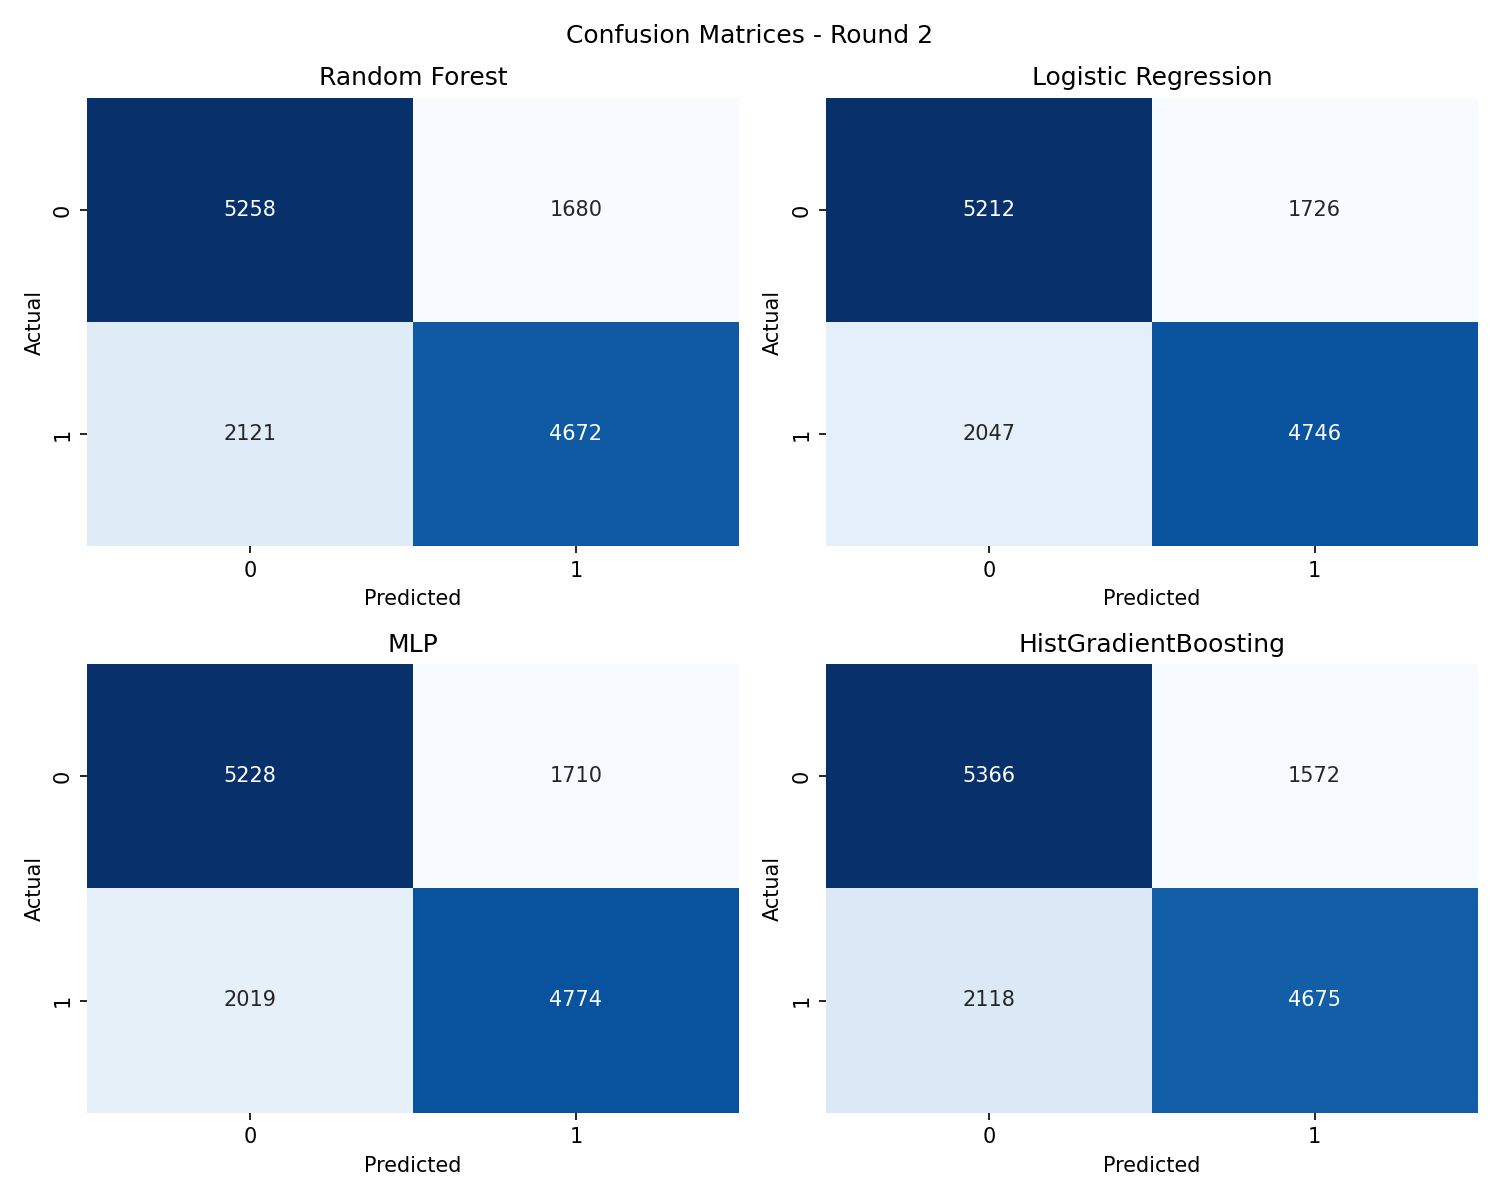
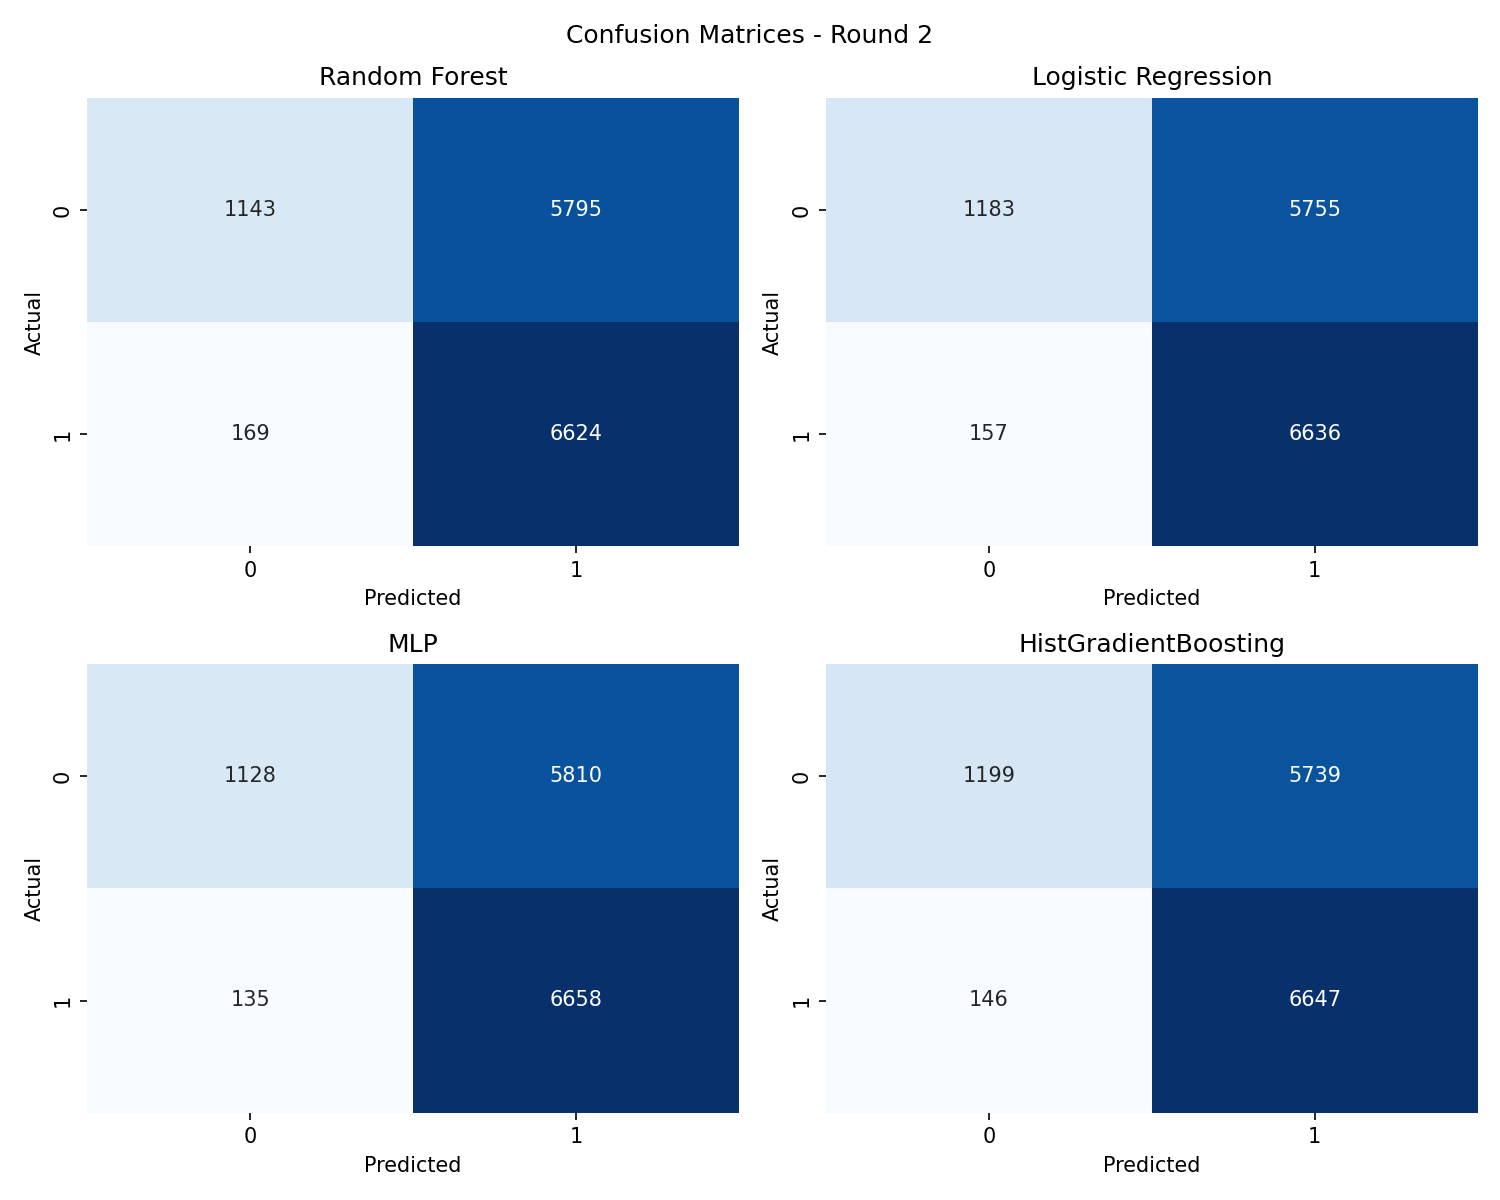
Update visualization to use the dynamic threshold for round 2

diff --git a/src/12_visualizations.py b/src/12_visualizations.py
@@ -3,6 +3,7 @@ from __future__ import annotations
 
 # Standard library imports
 from typing import Tuple
+import json
 
 # General library imports
 import matplotlib.pyplot as plt
@@ -12,19 +13,23 @@ from sklearn.base import BaseEstimator
 from sklearn.metrics import auc, confusion_matrix, precision_recall_curve, roc_curve
 
 # Custom imports
-from utils import FIGURES_DIR, load_processed_data, clean_cardio, ensure_dirs, load_raw_cardio, load_models_by_round, load_stacking_model
+from utils import FIGURES_DIR, METRICS_DIR, load_processed_data, clean_cardio, ensure_dirs, load_raw_cardio, load_models_by_round, load_stacking_model
 
 
 # Evaluate the trained models on same data
 def evaluate_models(
-    models: dict[str, BaseEstimator], x_test: np.ndarray, y_test: np.ndarray
+    models: dict[str, BaseEstimator], x_test: np.ndarray, y_test: np.ndarray,
+    thresholds: dict[str, float] | None = None
 ) -> Tuple[dict, dict, dict]:
     roc_data = {}
     pr_data = {}
     cms = {}
     for name, model in models.items():
         y_proba = model.predict_proba(x_test)[:, 1]
-        y_pred = model.predict(x_test)
+        
+        # Use saved threshold if available, else default 0.5
+        t = (thresholds or {}).get(name, 0.5)
+        y_pred = (y_proba >= t).astype(int)
 
         fpr, tpr, _ = roc_curve(y_test, y_proba)
         precision, recall, _ = precision_recall_curve(y_test, y_proba)
@@ -136,9 +141,12 @@ def plots_per_round() -> None:
     _, x_test, _, y_test = load_processed_data()
     r1_models, r2_models = load_models_by_round()
 
+    # Load saved Round 2 thresholds (Round 1 stays at 0.5)
+    r2_thresholds = json.loads((METRICS_DIR / "8_tuned_thresholds.json").read_text())
+
     # Evaluate both rounds
     roc_r1, pr_r1, cm_r1 = evaluate_models(r1_models, x_test, y_test)
-    roc_r2, pr_r2, cm_r2 = evaluate_models(r2_models, x_test, y_test)
+    roc_r2, pr_r2, cm_r2 = evaluate_models(r2_models, x_test, y_test, thresholds=r2_thresholds)
 
     # Create ROC curves plot round 1 & 2
     plot_roc(roc_r1, "ROC Curves - Round 1", "roc_curves_r1.png")
@@ -155,12 +163,16 @@ def plots_per_round() -> None:
 def plot_stacking_comparison() -> None:
     # Load data and models
     _, x_test, _, y_test = load_processed_data()
-    r1_models, r2_models = load_models_by_round()
+    _, r2_models = load_models_by_round()
     stacking_model = load_stacking_model()
     
+    # Load Round 2 thresholds and use 0.5 for stacked
+    r2_thresholds = json.loads((METRICS_DIR / "8_tuned_thresholds.json").read_text())
+    thresholds = {**r2_thresholds, "Stacking": 0.5}
+
     # Combine into one dict for evaluation
     models = {**r2_models, "Stacking": stacking_model}
-    roc_data, pr_data, cm_data = evaluate_models(models, x_test, y_test)
+    roc_data, pr_data, cm_data = evaluate_models(models, x_test, y_test, thresholds)
     
     # Plot ROC
     plot_roc(roc_data, "ROC Curves - Stacking vs. Individual Models", "roc_curves_stacking.png")

diff --git a/src/8_hyperparameter_tuning.py b/src/8_hyperparameter_tuning.py
@@ -29,7 +29,7 @@ def best_threshold(model, x_test: np.ndarray, y_test: np.ndarray) -> float:
             best_f2, best_t = score, float(t)
     return best_t
 
-# 
+# Evaluates the model (Test dataset)
 def evaluate(model, x_test: np.ndarray, y_test: np.ndarray, threshold: float = 0.5
     ) -> tuple[float, float, float, float, float]:
     proba = model.predict_proba(x_test)[:, 1]
@@ -180,8 +180,18 @@ tuned_df = pd.DataFrame(rows).sort_values(["test_recall", "test_auc"], ascending
 csv_path = save_metrics_csv(tuned_df, "8_tuned_model_metrics.csv")
 params_path = METRICS_DIR / "8_tuned_best_params.json"
 params_path.write_text(json.dumps(best_params, indent=2), encoding="utf-8")
+
+# Save best thresholds results into a json file
+KEY_MAP = {
+    "random_forest": "Random Forest",
+    "logistic_regression": "Logistic Regression",
+    "mlp": "MLP",
+    "hist_gradient_boosting": "HistGradientBoosting",
+}
 thresholds_path = METRICS_DIR / "8_tuned_thresholds.json"
-thresholds_path.write_text(json.dumps(best_thresholds, indent=2), encoding="utf-8")
+thresholds = json.loads(thresholds_path.read_text())
+renamed = {KEY_MAP[k]: v for k, v in thresholds.items()}
+thresholds_path.write_text(json.dumps(renamed, indent=2))
 
 # Print confirmation
 print(f"Saved tuned metrics: {csv_path}")

diff --git a/src/utils.py b/src/utils.py
@@ -201,6 +201,7 @@ def load_models_by_round() -> Tuple[dict[str, BaseEstimator], dict[str, BaseEsti
     }
     return r1, r2
 
+
 # Load stacking model    
 def load_stacking_model() -> BaseEstimator:
     return load_model("stacking.joblib")
